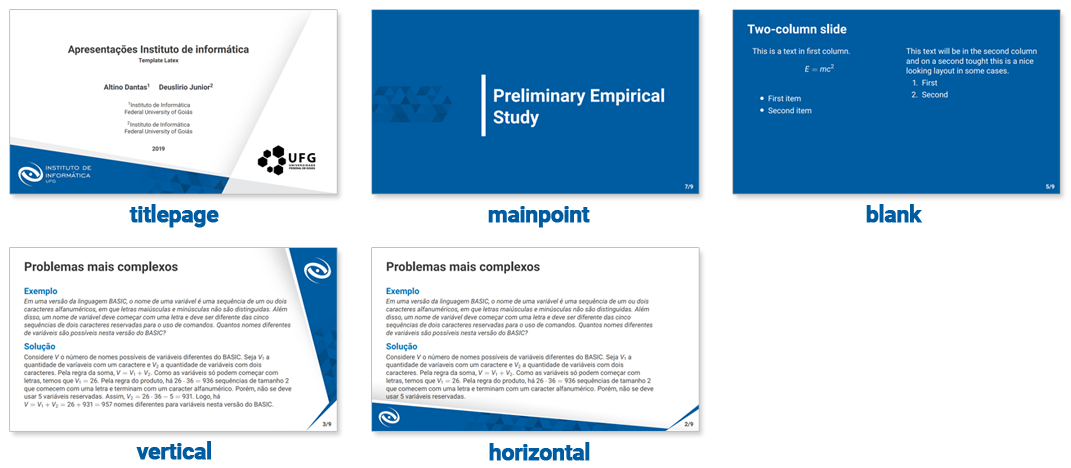
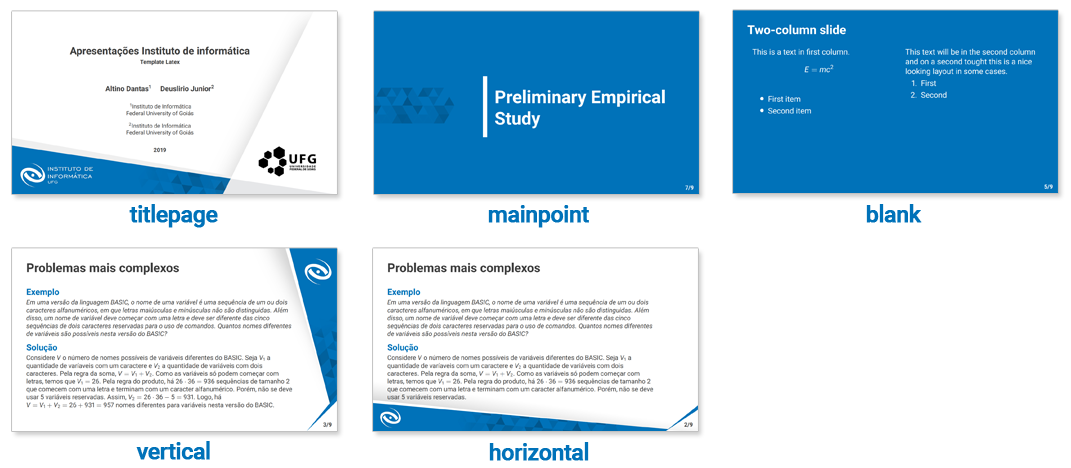
update readme images

diff --git a/main.tex b/main.tex
@@ -3,9 +3,9 @@
 
 \usetheme{Ufg}
 %--------------------------------------- Primary Definitions
-% \setPrimaryColor{UFGBlue} % This command set the default Color, is possible to choose a custom color
+\setPrimaryColor{UFGBlue} % This command set the default Color, is possible to choose a custom color
 
-\setPrimaryColor{INFBlue} 
+% \setPrimaryColor{INFBlue} 
 % \setPrimaryColor{DarkOrange}
 
 \setLogos{lib/logos/infw.png}{lib/logos/infw2.png} %First one is logo in title slide (we recommend use a horizontal image), and second one is the logo used in the remaining slides (we recommend use a square image)
@@ -212,7 +212,7 @@ This is a text in second frame. For the sake of showing an example.
 
 %---------------------------------
 \setLayout{titlepage}
-\setBGColor{black}
+\setBGColor{DarkGray}
 \titlepage
 %-------------------------------------
 \end{document}
